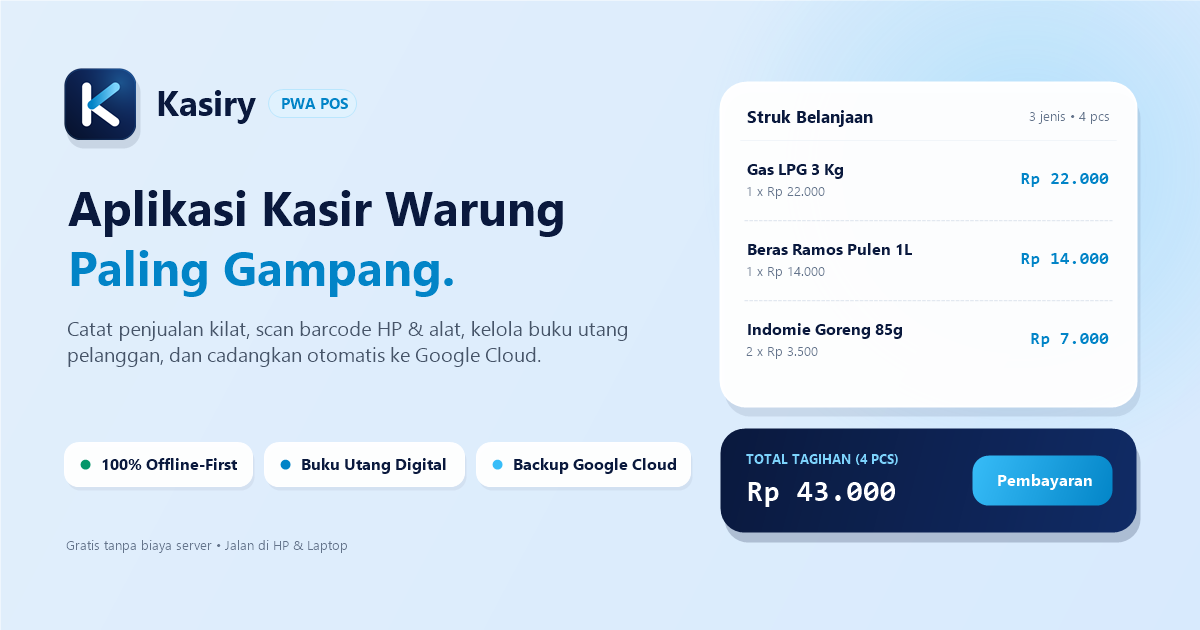
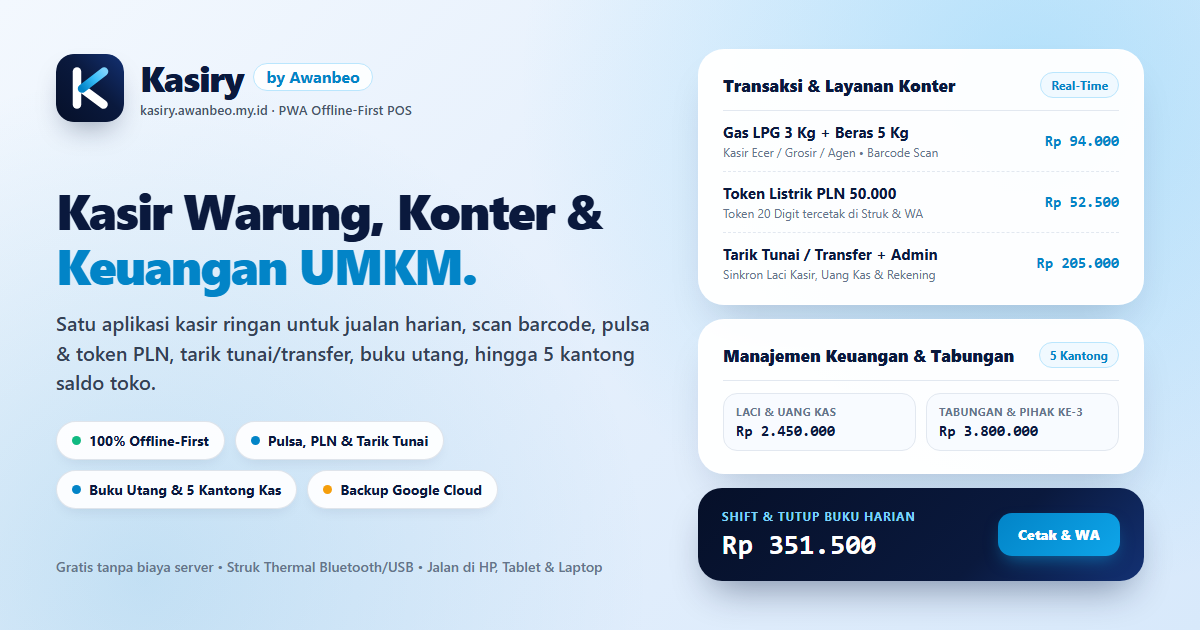
chore(brand,seo): refresh OG image, dynamic browser title, footers, and SEO metadata (v2.20.2)

Changed region(s): [[0.0308, 0.0603, 0.9558, 1.0], [0.0308, 0.3016, 0.555, 0.6333], [0.0308, 0.0603, 0.3392, 0.2413]]

diff --git a/index.html b/index.html
@@ -5,10 +5,10 @@
     <meta name="viewport" content="width=device-width, initial-scale=1.0, viewport-fit=cover" />
 
     <!-- Identitas & SEO Dasar -->
-    <title>Kasiry by Awanbeo — Aplikasi Kasir Warung &amp; Buku Utang Offline-First</title>
+    <title>Kasiry by Awanbeo — Kasir Warung, Konter &amp; Keuangan UMKM</title>
     <meta
       name="description"
-      content="Kasiry by Awanbeo — aplikasi kasir (POS) PWA gratis dan offline-first khusus warung kelontong &amp; UMKM Indonesia. Catat penjualan kilat, cetak struk thermal, scan barcode, kelola buku utang, &amp; cadangan Google Drive."
+      content="Kasiry by Awanbeo adalah aplikasi kasir (POS) PWA gratis dan offline-first untuk warung, konter &amp; UMKM Indonesia: struk thermal, scan barcode, pulsa &amp; token PLN, tarik tunai/transfer, buku utang, manajemen 5 kantong keuangan &amp; cadangan Google Cloud."
     />
     <meta name="robots" content="index, follow" />
     <link rel="canonical" href="https://kasiry.awanbeo.my.id/" />
@@ -30,27 +30,34 @@
     <meta property="og:locale" content="id_ID" />
     <meta property="og:site_name" content="Kasiry by Awanbeo" />
     <meta property="og:url" content="https://kasiry.awanbeo.my.id/" />
-    <meta property="og:title" content="Kasiry by Awanbeo — Aplikasi Kasir Warung Paling Gampang" />
+    <meta property="og:title" content="Kasiry by Awanbeo — Kasir Warung, Konter &amp; Keuangan UMKM" />
     <meta
       property="og:description"
-      content="Aplikasi kasir warung &amp; UMKM 100% offline-first. Scan barcode, catat buku utang otomatis, laporan harian WA 1-klik, dan cadangan aman ke Google Cloud."
+      content="Satu aplikasi kasir ringan 100% offline-first: struk thermal, scan barcode, pulsa &amp; token PLN, tarik tunai/transfer, buku utang, hingga 5 kantong saldo keuangan &amp; cadangan Google Cloud."
     />
     <meta property="og:image" content="https://kasiry.awanbeo.my.id/og-image.png" />
     <meta property="og:image:secure_url" content="https://kasiry.awanbeo.my.id/og-image.png" />
     <meta property="og:image:type" content="image/png" />
     <meta property="og:image:width" content="1200" />
     <meta property="og:image:height" content="630" />
-    <meta property="og:image:alt" content="Kasiry by Awanbeo — Aplikasi Kasir Warung Offline-First bertema Midnight Deep Navy dan Azure Blue" />
+    <meta
+      property="og:image:alt"
+      content="Pratinjau Kasiry by Awanbeo — Kasir Warung, Konter &amp; Keuangan UMKM Offline-First dengan tampilan struk, pulsa &amp; token PLN, tarik tunai, serta 5 kantong keuangan"
+    />
 
     <!-- Twitter / X Card -->
     <meta name="twitter:card" content="summary_large_image" />
     <meta name="twitter:url" content="https://kasiry.awanbeo.my.id/" />
-    <meta name="twitter:title" content="Kasiry by Awanbeo — Aplikasi Kasir Warung Paling Gampang" />
+    <meta name="twitter:title" content="Kasiry by Awanbeo — Kasir Warung, Konter &amp; Keuangan UMKM" />
     <meta
       name="twitter:description"
-      content="Kasir warung &amp; UMKM 100% offline-first dengan barcode scanner, buku utang digital, dan cadangan Google Drive &amp; Sheets."
+      content="Kasir warung &amp; konter 100% offline-first: barcode scanner, pulsa &amp; token PLN, tarik tunai, buku utang, 5 kantong keuangan &amp; cadangan Google Cloud."
     />
     <meta name="twitter:image" content="https://kasiry.awanbeo.my.id/og-image.png" />
+    <meta
+      name="twitter:image:alt"
+      content="Pratinjau Kasiry by Awanbeo — Kasir Warung, Konter &amp; Keuangan UMKM Offline-First"
+    />
 
     <!-- Structured Data (JSON-LD) -->
     <script type="application/ld+json">
@@ -60,11 +67,25 @@
         "name": "Kasiry by Awanbeo",
         "alternateName": "Kasiry",
         "url": "https://kasiry.awanbeo.my.id/",
-        "description": "Kasiry by Awanbeo — aplikasi kasir (POS) PWA offline-first untuk warung kelontong dan UMKM Indonesia dengan printer thermal Bluetooth/USB, barcode scanner, buku utang digital, laporan kasir, dan cadangan Google Cloud.",
+        "description": "Kasiry by Awanbeo — aplikasi kasir (POS) PWA offline-first untuk warung kelontong, konter pulsa/agen tarik tunai, dan UMKM Indonesia: printer thermal Bluetooth/USB, barcode scanner, buku utang digital, pulsa & token PLN, tarik tunai/transfer, manajemen keuangan 5 kantong & tabungan, serta cadangan Google Cloud.",
         "applicationCategory": "BusinessApplication",
         "operatingSystem": "Web, Android, iOS, Windows, macOS",
         "inLanguage": "id",
         "image": "https://kasiry.awanbeo.my.id/og-image.png",
+        "offers": {
+          "@type": "Offer",
+          "price": "0",
+          "priceCurrency": "IDR"
+        },
+        "featureList": [
+          "Kasir Offline-First & Scan Barcode Kamera/USB",
+          "Cetak Struk Thermal Bluetooth/USB/Serial & Kirim WhatsApp",
+          "Buku Utang & Cicilan Pelanggan",
+          "Pulsa, Paket Data & Token Listrik PLN",
+          "Layanan Tarik Tunai & Transfer / Top-Up",
+          "Manajemen Keuangan 5 Kantong, Tabungan & Tutup Shift Harian",
+          "Cadangan Google Drive & Google Sheets"
+        ],
         "author": {
           "@type": "Person",
           "name": "Awanbeo",
@@ -85,7 +106,7 @@
       <main class="max-w-xl mx-auto px-6 py-12 text-[#0a193d]">
         <h1 class="text-2xl font-bold tracking-tight">Kasiry by <a href="https://awanbeo.my.id" class="text-[#0284c7] underline">Awanbeo</a></h1>
         <p class="mt-2 text-sm text-slate-600 leading-relaxed">
-          Kasiry by Awanbeo adalah aplikasi kasir (POS) offline-first untuk warung kelontong &amp; UMKM Indonesia, lengkap dengan cetak struk thermal Bluetooth/USB, scan barcode, buku utang pelanggan, serta pencadangan opsional ke Google Drive dan Google Sheets milik pengguna.
+          Kasiry by Awanbeo adalah aplikasi kasir (POS), layanan konter (pulsa/token PLN &amp; tarik tunai/transfer), buku utang pelanggan, serta manajemen 5 kantong keuangan toko yang bekerja 100% offline-first di HP, tablet, dan laptop, dilengkapi cetak struk thermal dan pencadangan opsional ke Google Drive &amp; Google Sheets.
         </p>
         <nav class="mt-6 flex flex-wrap gap-4 text-xs text-[#0284c7]" aria-label="Tautan Kepatuhan">
           <a href="/privacy" class="underline">Kebijakan Privasi (Privacy Policy)</a>

diff --git a/src/App.vue b/src/App.vue
@@ -99,6 +99,7 @@ import { exportKasiryExcel } from './utils/excelExport'
 import { computeDailyStats } from './utils/dailyStats'
 import { computeFinanceBalances } from './utils/financeEngine'
 import { buildPricedCartItem, normalizePriceTier, repriceCartItems } from './utils/pricing'
+import { APP_BRAND_TAGLINE, formatDocumentTitle } from './utils/branding'
 import { useGoogleSync } from './composables/useGoogleSync'
 import { useThermalPrinter } from './composables/useThermalPrinter'
 
@@ -183,6 +184,19 @@ const {
   exportBackupJSON,
   importBackupJSON
 } = useKasiryDB()
+
+const appVersion = typeof __APP_VERSION__ !== 'undefined' ? __APP_VERSION__ : '2.20.2'
+
+// Sinkronkan <title> tab browser secara dinamis mengikuti nama toko aktif
+watch(
+  () => storeProfile.value?.name,
+  (storeName) => {
+    if (typeof document !== 'undefined') {
+      document.title = formatDocumentTitle(storeName)
+    }
+  },
+  { immediate: true }
+)
 
 // Google Drive & Sheets Sync Composable ($0 Cloud Multi-Device Engine)
 const {
@@ -1552,10 +1566,10 @@ onUnmounted(() => {
 
       </div>
 
-      <!-- Bar Info Workstation & Tautan Kepatuhan (Khusus Desktop agar Mobile & Tablet Bebas Gangguan) -->
-      <footer class="hidden lg:flex shrink-0 pt-2.5 items-center justify-between gap-3 text-[11px] text-slate-500">
-        <div class="flex items-center gap-3">
-          <span>
+      <!-- Bar Info Workstation & Tautan Kepatuhan (Tablet & Desktop; Mobile lewat Drawer agar layar HP lega) -->
+      <footer class="hidden md:flex shrink-0 pt-2 items-center justify-between gap-3 text-[11px] text-slate-500">
+        <div class="flex items-center gap-2.5 min-w-0">
+          <span class="truncate">
             <strong class="font-semibold text-[#0a193d]/80">Kasiry</strong>
             by
             <a
@@ -1564,12 +1578,13 @@ onUnmounted(() => {
               rel="noopener noreferrer"
               class="font-semibold text-[#0284c7] hover:underline"
             >Awanbeo</a>
-            — Kasir Warung &amp; Buku Utang
+            — {{ APP_BRAND_TAGLINE }}
+            <span class="ml-1.5 font-mono text-[10px] text-slate-400">v{{ appVersion }}</span>
           </span>
-          <span aria-hidden="true" class="text-slate-300">•</span>
-          <span class="text-slate-400">Pintasan: <kbd class="px-1 py-0.5 rounded bg-white/80 border border-slate-200 font-mono text-[10px] text-[#0a193d]">/</kbd> Cari • <kbd class="px-1 py-0.5 rounded bg-white/80 border border-slate-200 font-mono text-[10px] text-[#0a193d]">F2</kbd> Bayar</span>
+          <span aria-hidden="true" class="hidden lg:inline text-slate-300">•</span>
+          <span class="hidden lg:inline text-slate-400">Pintasan: <kbd class="px-1 py-0.5 rounded bg-white/80 border border-slate-200 font-mono text-[10px] text-[#0a193d]">/</kbd> Cari • <kbd class="px-1 py-0.5 rounded bg-white/80 border border-slate-200 font-mono text-[10px] text-[#0a193d]">F2</kbd> Bayar</span>
         </div>
-        <nav class="flex items-center gap-3" aria-label="Tautan Kepatuhan">
+        <nav class="flex items-center gap-3 shrink-0" aria-label="Tautan Kepatuhan">
           <a href="/privacy" class="hover:text-[#0284c7] underline decoration-slate-300 underline-offset-2 transition-colors">Kebijakan Privasi</a>
           <span aria-hidden="true" class="text-slate-300">•</span>
           <a href="/terms" class="hover:text-[#0284c7] underline decoration-slate-300 underline-offset-2 transition-colors">Ketentuan Layanan</a>

diff --git a/public/privacy.html b/public/privacy.html
@@ -4,6 +4,13 @@
     <meta charset="UTF-8" />
     <meta name="viewport" content="width=device-width, initial-scale=1.0" />
     <title>Kebijakan Privasi — Kasiry by Awanbeo</title>
+    <meta name="description" content="Kebijakan Privasi resmi Kasiry by Awanbeo mengenai penyimpanan data kasir offline-first (IndexedDB) dan akses opsional Google Drive &amp; Sheets milik pengguna." />
+    <meta property="og:type" content="website" />
+    <meta property="og:site_name" content="Kasiry by Awanbeo" />
+    <meta property="og:title" content="Kebijakan Privasi — Kasiry by Awanbeo" />
+    <meta property="og:description" content="Penjelasan resmi pengelolaan data lokal offline-first dan izin opsional Google Drive &amp; Google Sheets pada Kasiry by Awanbeo." />
+    <meta property="og:url" content="https://kasiry.awanbeo.my.id/privacy" />
+    <meta property="og:image" content="https://kasiry.awanbeo.my.id/og-image.png" />
     <link rel="canonical" href="https://kasiry.awanbeo.my.id/privacy" />
     <link rel="icon" type="image/svg+xml" href="/favicon.svg" />
     <meta name="theme-color" content="#0a193d" />
@@ -65,12 +72,12 @@
     <main class="card">
       <div class="badge">Kasiry by Awanbeo • Privacy Policy</div>
       <h1>Kebijakan Privasi Kasiry by Awanbeo</h1>
-      <p class="updated">Terakhir diperbarui: 27 November 2026</p>
+      <p class="updated">Terakhir diperbarui: 28 November 2026</p>
 
       <h2>1. Prinsip Penyimpanan Lokal (Offline-First)</h2>
       <p>
-        <strong>Kasiry by Awanbeo</strong> (<a href="https://kasiry.awanbeo.my.id">kasiry.awanbeo.my.id</a>) adalah aplikasi kasir (Point of Sale) berbasis peramban yang bekerja secara <strong>offline-first</strong>, dikembangkan oleh <a href="https://awanbeo.my.id" target="_blank" rel="noopener noreferrer">Awanbeo</a>.
-        Seluruh data toko Anda—termasuk daftar barang, harga, pelanggan, catatan utang/bon, dan riwayat transaksi—disimpan langsung di penyimpanan lokal perangkat Anda (<code>IndexedDB</code> dan <code>localStorage</code>). Kasiry by Awanbeo tidak mengoperasikan server pusat untuk mengumpulkan atau menjual data transaksi Anda.
+        <strong>Kasiry by Awanbeo</strong> (<a href="https://kasiry.awanbeo.my.id">kasiry.awanbeo.my.id</a>) adalah aplikasi kasir (Point of Sale), layanan konter, buku utang, dan manajemen keuangan toko berbasis peramban yang bekerja secara <strong>offline-first</strong>, dikembangkan oleh <a href="https://awanbeo.my.id" target="_blank" rel="noopener noreferrer">Awanbeo</a>.
+        Seluruh data toko Anda—termasuk daftar barang, harga, pelanggan, catatan utang/bon, transaksi konter (pulsa/token PLN, tarik tunai/transfer), mutasi keuangan 5 kantong, dan riwayat shift—disimpan langsung di penyimpanan lokal perangkat Anda (<code>IndexedDB</code> dan <code>localStorage</code>). Kasiry by Awanbeo tidak mengoperasikan server pusat untuk mengumpulkan atau menjual data transaksi Anda.
       </p>
 
       <h2>2. Penggunaan Akun Google (Opsional)</h2>

diff --git a/src/components/TopBar.vue b/src/components/TopBar.vue
@@ -1,5 +1,6 @@
 <script setup>
 import { ref, computed, watch, onMounted, onUnmounted } from 'vue'
+import { APP_BRAND_NAME, APP_BRAND_TAGLINE, getStoreInitials } from '../utils/branding'
 import {
   X,
   BookOpen,
@@ -82,6 +83,7 @@ const emit = defineEmits([
   'drawerClosed'
 ])
 
+const appVersion = typeof __APP_VERSION__ !== 'undefined' ? __APP_VERSION__ : '2.20.2'
 const isDrawerOpen = ref(false)
 const openMenuKey = ref(null) // 'data' | 'service' | 'finance' | null
 const desktopMenusRef = ref(null)
@@ -467,7 +469,7 @@ const drawerGroups = computed(() => [
               class="w-full h-full rounded-[10px] object-cover"
             />
             <div v-else class="w-full h-full rounded-[10px] bg-[#0a193d] flex items-center justify-center text-white text-xs font-bold font-mono">
-              {{ storeName ? storeName.substring(0, 2).toUpperCase() : 'HS' }}
+              {{ getStoreInitials(storeName) }}
             </div>
           </div>
           <span
@@ -642,7 +644,7 @@ const drawerGroups = computed(() => [
             class="w-full h-full rounded-[14px] object-cover"
           />
           <div v-else class="w-full h-full rounded-[14px] bg-[#0a193d] flex items-center justify-center text-white text-xs font-bold font-mono">
-            {{ storeName ? storeName.substring(0, 2).toUpperCase() : 'HS' }}
+            {{ getStoreInitials(storeName) }}
           </div>
         </div>
         <!-- Online / Cloud Sync Status Dot -->
@@ -711,17 +713,18 @@ const drawerGroups = computed(() => [
 
         <div class="p-4 border-t border-slate-100 text-xs text-slate-500 space-y-2">
           <div>
-            <p class="font-bold text-slate-700">Kasiry by Awanbeo</p>
-            <p class="mt-0.5 flex items-center gap-1 text-[11px] text-slate-500">
-              <span>Crafted with ❤ by</span>
+            <div class="flex items-center justify-between gap-2">
+              <p class="font-bold text-[#0a193d]">{{ APP_BRAND_NAME }}</p>
+              <span class="px-1.5 py-0.5 rounded-md bg-slate-100 text-slate-600 font-mono text-[10px] font-semibold">v{{ appVersion }}</span>
+            </div>
+            <p class="mt-0.5 text-[11px] text-slate-500">
+              {{ APP_BRAND_TAGLINE }} · oleh
               <a
                 href="https://awanbeo.my.id"
                 target="_blank"
                 rel="noopener noreferrer"
-                class="font-bold text-[#0284c7] hover:underline"
-              >
-                awanbeo
-              </a>
+                class="font-semibold text-[#0284c7] hover:underline"
+              >Awanbeo</a>
             </p>
           </div>
           <div class="flex flex-wrap items-center gap-2.5 pt-1 text-[11px] text-slate-400">

diff --git a/public/terms.html b/public/terms.html
@@ -4,6 +4,13 @@
     <meta charset="UTF-8" />
     <meta name="viewport" content="width=device-width, initial-scale=1.0" />
     <title>Ketentuan Layanan — Kasiry by Awanbeo</title>
+    <meta name="description" content="Ketentuan Layanan resmi penggunaan aplikasi kasir offline-first Kasiry by Awanbeo untuk warung, layanan konter, buku utang &amp; manajemen keuangan UMKM." />
+    <meta property="og:type" content="website" />
+    <meta property="og:site_name" content="Kasiry by Awanbeo" />
+    <meta property="og:title" content="Ketentuan Layanan — Kasiry by Awanbeo" />
+    <meta property="og:description" content="Syarat penggunaan aplikasi kasir warung, layanan konter, buku utang, dan cadangan Google Cloud pada Kasiry by Awanbeo." />
+    <meta property="og:url" content="https://kasiry.awanbeo.my.id/terms" />
+    <meta property="og:image" content="https://kasiry.awanbeo.my.id/og-image.png" />
     <link rel="canonical" href="https://kasiry.awanbeo.my.id/terms" />
     <link rel="icon" type="image/svg+xml" href="/favicon.svg" />
     <meta name="theme-color" content="#0a193d" />
@@ -65,11 +72,11 @@
     <main class="card">
       <div class="badge">Kasiry by Awanbeo • Terms of Service</div>
       <h1>Ketentuan Layanan Kasiry by Awanbeo</h1>
-      <p class="updated">Terakhir diperbarui: 27 November 2026</p>
+      <p class="updated">Terakhir diperbarui: 28 November 2026</p>
 
       <h2>1. Penggunaan Aplikasi</h2>
       <p>
-        <strong>Kasiry by Awanbeo</strong> (<a href="https://kasiry.awanbeo.my.id">kasiry.awanbeo.my.id</a>), dikembangkan oleh <a href="https://awanbeo.my.id" target="_blank" rel="noopener noreferrer">Awanbeo</a>, disediakan sebagai alat bantu kasir harian, pencatatan barang, manajemen buku utang/bon, dan pelaporan penjualan bagi warung kelontong serta pelaku UMKM Indonesia.
+        <strong>Kasiry by Awanbeo</strong> (<a href="https://kasiry.awanbeo.my.id">kasiry.awanbeo.my.id</a>), dikembangkan oleh <a href="https://awanbeo.my.id" target="_blank" rel="noopener noreferrer">Awanbeo</a>, disediakan sebagai alat bantu kasir harian, pencatatan barang, layanan konter (pulsa/token PLN &amp; tarik tunai/transfer), manajemen buku utang/bon, keuangan toko, dan pelaporan penjualan bagi warung kelontong serta pelaku UMKM Indonesia.
       </p>
 
       <h2>2. Tanggung Jawab Pencadangan Data</h2>

diff --git a/tests/uiModals.test.js b/tests/uiModals.test.js
@@ -19,6 +19,7 @@ import SettingsModal from '../src/components/SettingsModal.vue'
 import CashServiceModal from '../src/components/CashServiceModal.vue'
 import DigitalProductModal from '../src/components/DigitalProductModal.vue'
 import FinanceModal from '../src/components/FinanceModal.vue'
+import { APP_BRAND_NAME, APP_BRAND_TAGLINE, DEFAULT_DOCUMENT_TITLE, formatDocumentTitle, getStoreInitials } from '../src/utils/branding'
 
 const sampleCustomers = [
   { id: 1, name: 'Umum', phone: '', totalDebt: 0, updatedAt: 1000 },
@@ -1359,5 +1360,27 @@ describe('Vue SFC Modals Integration & Tab Switching', () => {
     await nextTick()
     expect(debtModal.text()).toContain('PLS-BON1')
     expect(debtModal.text()).toContain('Pulsa 20.000')
+  })
+
+  it('formats dynamic document title, uses KS fallback initials instead of HS, and unifies drawer footer branding', async () => {
+    expect(formatDocumentTitle('')).toBe(DEFAULT_DOCUMENT_TITLE)
+    expect(formatDocumentTitle('Warung Kasiry')).toBe(DEFAULT_DOCUMENT_TITLE)
+    expect(formatDocumentTitle('Toko Berkah')).toBe(`Toko Berkah — ${APP_BRAND_NAME}`)
+
+    expect(getStoreInitials('')).toBe('KS')
+    expect(getStoreInitials('Toko Berkah')).toBe('TO')
+
+    const topBarBlank = mount(TopBar, {
+      props: { storeName: '' }
+    })
+    expect(topBarBlank.text()).toContain('KS')
+    expect(topBarBlank.text()).not.toContain('HS')
+
+    await topBarBlank.find('button[aria-label="Buka Menu"]').trigger('click')
+    await nextTick()
+    expect(topBarBlank.text()).toContain(APP_BRAND_NAME)
+    expect(topBarBlank.text()).toContain(APP_BRAND_TAGLINE)
+    expect(topBarBlank.text()).toContain('Kebijakan Privasi')
+    expect(topBarBlank.text()).toContain('Ketentuan Layanan')
   })
 })

diff --git a/vite.config.js b/vite.config.js
@@ -47,10 +47,14 @@ export default defineConfig({
       registerType: 'autoUpdate',
       includeAssets: ['favicon.svg', 'apple-touch-icon.png', 'pwa-192x192.png', 'pwa-512x512.png'],
       manifest: {
-        name: 'Kasiry by Awanbeo — Aplikasi Kasir Warung & Buku Utang',
+        id: '/',
+        start_url: '/',
+        scope: '/',
+        name: 'Kasiry by Awanbeo — Kasir Warung, Konter & Keuangan UMKM',
         short_name: 'Kasiry',
-        description: 'Kasiry by Awanbeo — Aplikasi Kasir Warung Kelontong & UMKM Indonesia Offline-First',
+        description: 'Kasiry by Awanbeo — Aplikasi Kasir Warung, Pulsa & Token PLN, Tarik Tunai/Transfer, Buku Utang & Manajemen 5 Kantong Keuangan Offline-First',
         lang: 'id',
+        categories: ['business', 'finance', 'productivity'],
         theme_color: '#0a193d',
         background_color: '#edf5fd',
         display: 'standalone',

diff --git a/src/utils/branding.js b/src/utils/branding.js
@@ -1,0 +1,23 @@
+export const APP_BRAND_NAME = 'Kasiry by Awanbeo'
+export const APP_BRAND_TAGLINE = 'Kasir Warung, Konter & Keuangan UMKM'
+export const DEFAULT_DOCUMENT_TITLE = `${APP_BRAND_NAME} — ${APP_BRAND_TAGLINE}`
+export const DEFAULT_STORE_INITIALS = 'KS'
+
+/**
+ * Format judul tab browser dinamis berdasarkan nama toko pengguna.
+ */
+export function formatDocumentTitle(storeName = '') {
+  const cleanName = String(storeName || '').trim()
+  if (!cleanName || cleanName.toLowerCase() === 'warung kasiry') {
+    return DEFAULT_DOCUMENT_TITLE
+  }
+  return `${cleanName} — ${APP_BRAND_NAME}`
+}
+
+/**
+ * Ambil 2 huruf inisial avatar toko dengan fallback aman ke 'KS' (Kasiry).
+ */
+export function getStoreInitials(storeName = '') {
+  const cleanName = String(storeName || '').trim()
+  return cleanName ? cleanName.substring(0, 2).toUpperCase() : DEFAULT_STORE_INITIALS
+}

diff --git a/src/components/SettingsModal.vue b/src/components/SettingsModal.vue
@@ -122,7 +122,7 @@ const emit = defineEmits([
 
 // 3 Tabs: 'profile' (Profil Toko) | 'printer' (Printer Thermal) | 'backup' (Cadangan & Google)
 const activeTab = ref('profile')
-const appVersion = typeof __APP_VERSION__ !== 'undefined' ? __APP_VERSION__ : '2.20.1'
+const appVersion = typeof __APP_VERSION__ !== 'undefined' ? __APP_VERSION__ : '2.20.2'
 
 const formName = ref(props.storeProfile?.name || 'Warung Kasiry')
 const formOwner = ref(props.storeProfile?.owner || 'Pemilik Toko')

diff --git a/CHANGELOG.md b/CHANGELOG.md
@@ -6,6 +6,20 @@ Seluruh perubahan penting, peningkatan fitur, perbaikan bug, dan rilis versi **K
 
 ---
 
+## [2.20.2] - 2026-11-28 (Penyelarasan Branding, Dynamic Browser Title, Footer & OG Meta)
+
+### Changed
+- **Dynamic Browser Tab `<title>` & Helper Branding (`src/utils/branding.js`, `src/App.vue`):**
+  - Menambahkan watcher dinamis di `App.vue` agar judul tab peramban otomatis menampilkan `<Nama Toko> — Kasiry by Awanbeo` saat pemilik mengatur nama toko kustom, serta default `Kasiry by Awanbeo — Kasir Warung, Konter & Keuangan UMKM`.
+- **Footer Terpadu & Penghapusan Sisa Inisial `'HS'` (`src/App.vue`, `src/components/TopBar.vue`):**
+  - Mengganti inisial avatar fallback `'HS'` (sisa brand lama) menjadi `'KS'` lewat helper `getStoreInitials`.
+  - Membuka tampilan footer di viewport Tablet (`md+` / `hidden md:flex`) agar tautan **Kebijakan Privasi**, **Ketentuan Layanan**, brand **Kasiry by Awanbeo**, dan badge versi `v2.20.2` dapat diakses di Mobile Drawer, Tablet, maupun Desktop secara seragam.
+- **OG Meta, Gambar Preview (`public/og-image.png`), PWA Manifest & Halaman Legal:**
+  - Memperbarui desain & isi visual `public/og-image.png` (`1200x630`) untuk mencantumkan `Kasiry by Awanbeo`, `kasiry.awanbeo.my.id`, layanan konter (Pulsa/Token PLN & Tarik Tunai/Transfer), dan Manajemen Keuangan 5 Kantong.
+  - Menyelaraskan `<title>`, `meta description`, tag `og:*`, `twitter:*` (plus `twitter:image:alt`), JSON-LD `WebApplication` (`offers` & `featureList`) di `index.html`, PWA manifest di `vite.config.js`, serta meta OG + tanggal pembaruan di `public/privacy.html`, `public/terms.html`, dan `public/sitemap.xml`.
+
+---
+
 ## [2.20.1] - 2026-11-28 (Konsolidasi Dropdown Keuangan TopBar)
 
 ### Changed
